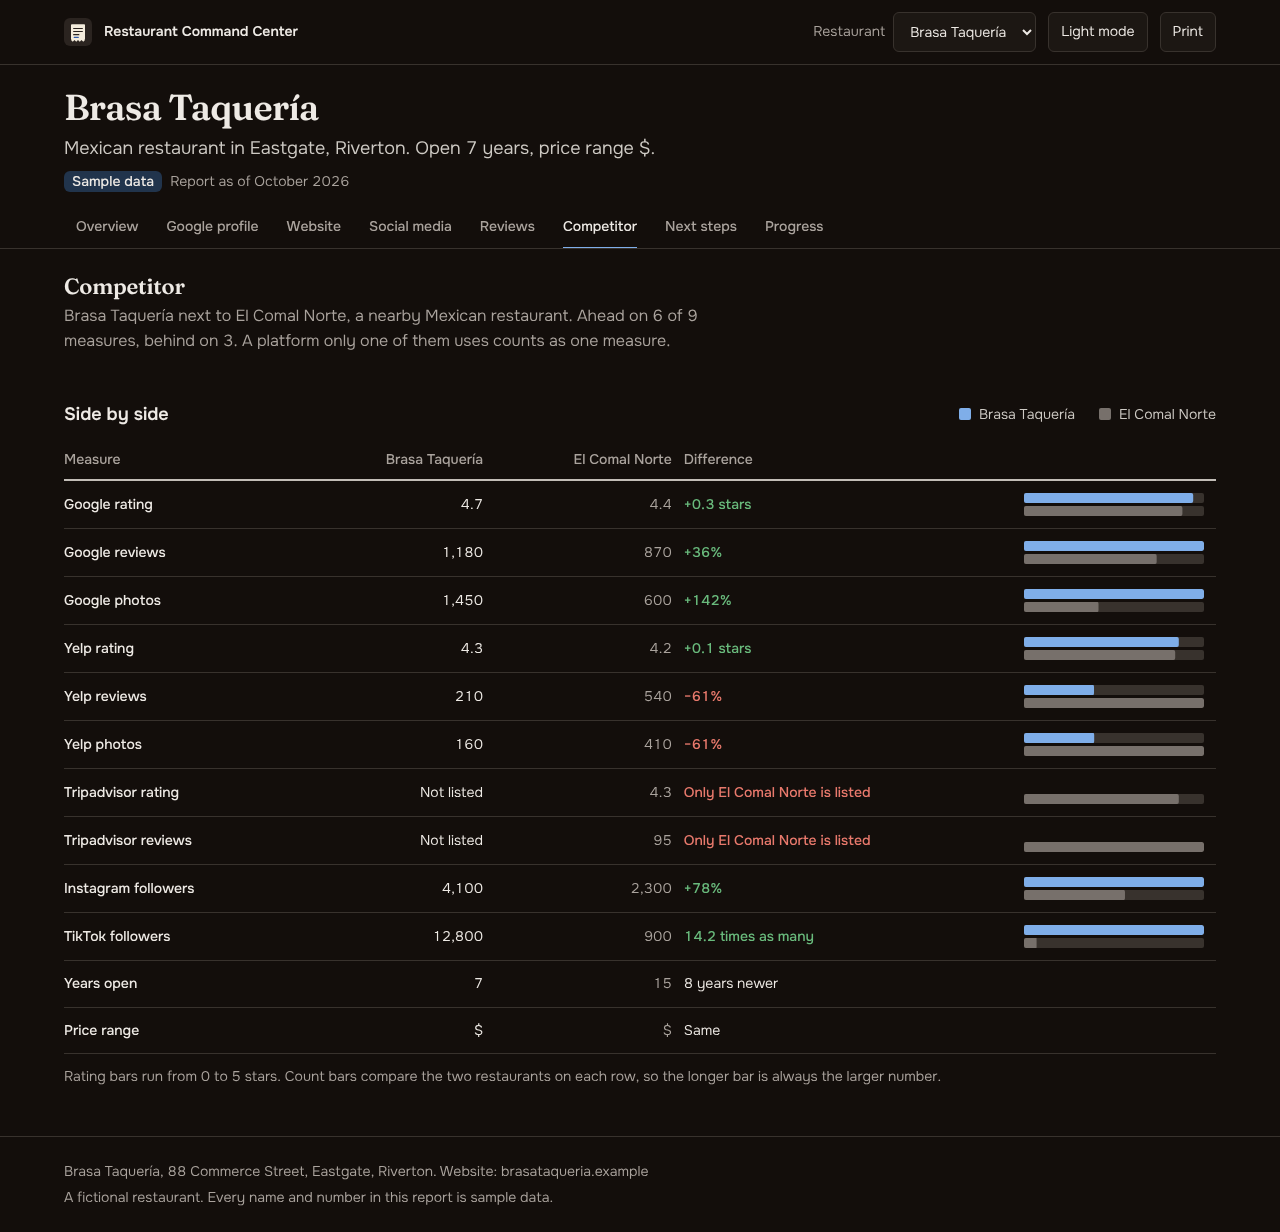
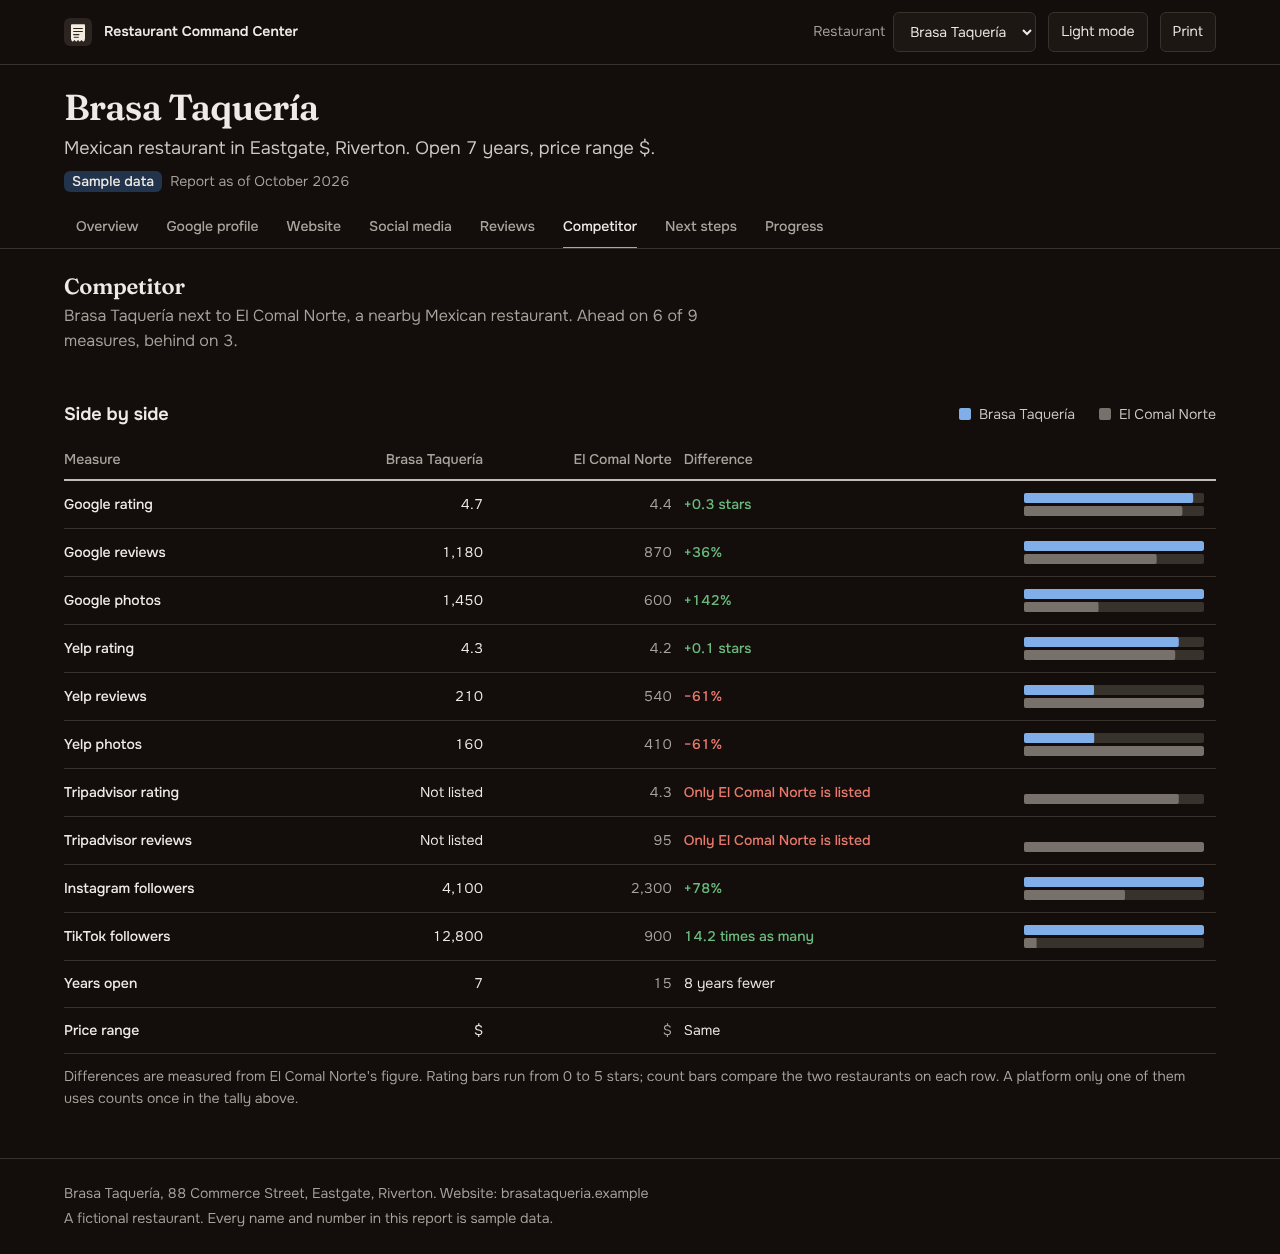
fix: align next steps with the ticket and tighten competitor copy
Sort each timeframe by the ticket's ranking and mark the ticket items,
let competitor differences wrap on narrow screens, reject review totals
that shrink between months, and add a CI workflow.

diff --git a/src/render/competitor.ts b/src/render/competitor.ts
@@ -26,7 +26,7 @@ export function gapText(self: Cell, rival: Cell, kind: Row['kind'], names = { se
   if (rival === 0) return self === 0 ? { text: 'Even', tone: 'even' } : { text: 'Ahead', tone: 'ahead' };
   const ratio = self / rival;
   if (ratio >= evenThresholds.timesFrom) return { text: `${ratio.toFixed(1)} times as many`, tone: 'ahead' };
-  if (self > 0 && rival / self >= evenThresholds.timesFrom) return { text: `${names.rival} has ${(rival / self).toFixed(1)} times as many`, tone: 'behind' };
+  if (self > 0 && rival / self >= evenThresholds.timesFrom) return { text: `${(rival / self).toFixed(1)} times fewer`, tone: 'behind' };
   const pct = (ratio - 1) * 100;
   if (Math.abs(pct) < evenThresholds.percent) return { text: 'Even', tone: 'even' };
   return { text: `${signed(pct)}%`, tone: pct > 0 ? 'ahead' : 'behind' };
@@ -71,7 +71,7 @@ export function standing(p: Profile): { ahead: number; behind: number; total: nu
 export function yearsGap(self: number, rival: number): string {
   const d = self - rival;
   if (d === 0) return 'Same';
-  return `${Math.abs(d)} ${Math.abs(d) === 1 ? 'year' : 'years'} ${d > 0 ? 'longer' : 'newer'}`;
+  return `${Math.abs(d)} ${Math.abs(d) === 1 ? 'year' : 'years'} ${d > 0 ? 'more' : 'fewer'}`;
 }
 
 export function renderCompetitor(p: Profile): SafeHtml {
@@ -86,7 +86,7 @@ export function renderCompetitor(p: Profile): SafeHtml {
     v === undefined ? html`<span class="meter is-empty" aria-hidden="true"></span>` : meter(v, max, variant);
 
   return html`
-    ${sectionHeader('Competitor', `${me.name} next to ${c.name}, a nearby ${me.cuisine} restaurant. Ahead on ${s.ahead} of ${s.total} measures, behind on ${s.behind}. A platform only one of them uses counts as one measure.`)}
+    ${sectionHeader('Competitor', `${me.name} next to ${c.name}, a nearby ${me.cuisine} restaurant. Ahead on ${s.ahead} of ${s.total} measures, behind on ${s.behind}.`)}
 
     <section class="card" aria-labelledby="compare-title">
       <div class="block-head">
@@ -111,6 +111,6 @@ export function renderCompetitor(p: Profile): SafeHtml {
           <tr><th scope="row">Price range</th><td class="num" data-label="${me.name}">${me.priceRange}</td><td class="num muted" data-label="${c.name}">${c.priceRange}</td><td data-label="Difference">${me.priceRange === c.priceRange ? 'Same' : 'Different'}</td><td class="hide-narrow"></td></tr>
         </tbody>
       </table></div>
-      <p class="small muted mt-3 hide-narrow">Rating bars run from 0 to 5 stars. Count bars compare the two restaurants on each row, so the longer bar is always the larger number.</p>
+      <p class="small muted mt-3 hide-narrow">Differences are measured from ${c.name}'s figure. Rating bars run from 0 to 5 stars; count bars compare the two restaurants on each row. A platform only one of them uses counts once in the tally above.</p>
     </section>`;
 }

diff --git a/src/render/opportunities.ts b/src/render/opportunities.ts
@@ -1,5 +1,6 @@
 import { html, type SafeHtml } from '../html';
 import type { Profile } from '../schema';
+import { actionValue, doFirst } from './overview';
 import { sectionHeader } from './shared';
 
 type Opportunity = Profile['opportunities'][number];
@@ -21,11 +22,17 @@ export const quadrants = [
 ] as const;
 
 export function renderOpportunities(p: Profile): SafeHtml {
+  const ticket = new Set(doFirst(p.opportunities));
   return html`
     ${sectionHeader('Next steps', `Every recommended action for ${p.restaurant.name}, grouped by when to do it.`)}
 
     ${horizons.map((h) => {
-      const items = p.opportunities.filter((o) => o.horizon === h.id);
+      // Same ranking as the overview ticket, so the order never disagrees with it.
+      const items = p.opportunities
+        .map((o, i) => ({ o, i }))
+        .filter(({ o }) => o.horizon === h.id)
+        .sort((a, b) => actionValue(b.o) - actionValue(a.o) || a.i - b.i)
+        .map(({ o }) => o);
       return (
         items.length > 0 &&
         html`<section class="card" aria-labelledby="h-${h.id}">
@@ -35,7 +42,7 @@ export function renderOpportunities(p: Profile): SafeHtml {
             <tbody>
               ${items.map(
                 (o) => html`<tr>
-                  <th scope="row">${o.title}<span class="row-note">${o.description}${o.fixesGap && html` Fixes: ${o.fixesGap.charAt(0).toLowerCase()}${o.fixesGap.slice(1)}.`}</span></th>
+                  <th scope="row">${o.title}${ticket.has(o) && html` <span class="on-ticket">On this week's ticket</span>`}<span class="row-note">${o.description}${o.fixesGap && html` Fixes: ${o.fixesGap.charAt(0).toLowerCase()}${o.fixesGap.slice(1)}.`}</span></th>
                   <td data-label="Impact"><span class="impact is-${o.impact}">${impactWords[o.impact]}</span></td>
                   <td data-label="Effort">${effortWords[o.effort]}</td>
                   <td data-label="Time">${o.time}</td>

diff --git a/src/schema.ts b/src/schema.ts
@@ -152,6 +152,14 @@ export const profileSchema = z
         ctx.addIssue({ code: 'custom', path: ['summary', 'criticalGaps', i], message: `No action due now or soon fixes "${gap}"` });
       }
     });
+    const totals = profile.history.map((h) => h.totalReviews);
+    if (totals.some((t, i) => i > 0 && t < totals[i - 1]!)) {
+      ctx.addIssue({ code: 'custom', path: ['history'], message: 'Review totals can only grow from one month to the next' });
+    }
+    const current = profile.reviewPlatforms.reduce((sum, r) => sum + r.reviews, 0);
+    if (totals.length > 0 && current < totals.at(-1)!) {
+      ctx.addIssue({ code: 'custom', path: ['history'], message: `The last recorded month has ${totals.at(-1)} reviews, more than the ${current} the platforms show now` });
+    }
     const months = profile.history.map((h) => h.month);
     if (months.some((m, i) => i > 0 && m <= months[i - 1]!)) {
       ctx.addIssue({ code: 'custom', path: ['history'], message: 'History months must be in order, oldest first' });

diff --git a/src/styles/app.css b/src/styles/app.css
@@ -940,7 +940,8 @@ tfoot th {
   }
 
   .score-card,
-  .matrix {
+  .matrix,
+  .ticket {
     break-inside: avoid;
   }
 
@@ -1080,6 +1081,10 @@ tfoot th {
     text-align: left;
   }
 
+  .stack-table .gap {
+    white-space: normal;
+  }
+
   .stack-table td:empty,
   .stack-table .hide-narrow {
     display: none;
@@ -1159,4 +1164,15 @@ tfoot th {
   margin-top: var(--space-1);
   font-size: var(--text-sm);
   color: var(--color-muted);
+}
+
+.on-ticket {
+  display: inline-block;
+  margin-left: var(--space-2);
+  padding: 0 var(--space-2);
+  border-radius: var(--radius-control);
+  background: var(--color-ticket);
+  font-size: var(--text-xs);
+  font-weight: 500;
+  white-space: nowrap;
 }

diff --git a/tests/render.test.ts b/tests/render.test.ts
@@ -105,8 +105,8 @@ describe('insights', () => {
     expect(fallingReviews(steady)).toBeUndefined();
   });
   it('describes the difference in years open', () => {
-    expect(yearsGap(17, 12)).toBe('5 years longer');
-    expect(yearsGap(7, 15)).toBe('8 years newer');
+    expect(yearsGap(17, 12)).toBe('5 years more');
+    expect(yearsGap(7, 15)).toBe('8 years fewer');
     expect(yearsGap(3, 3)).toBe('Same');
   });
 });
